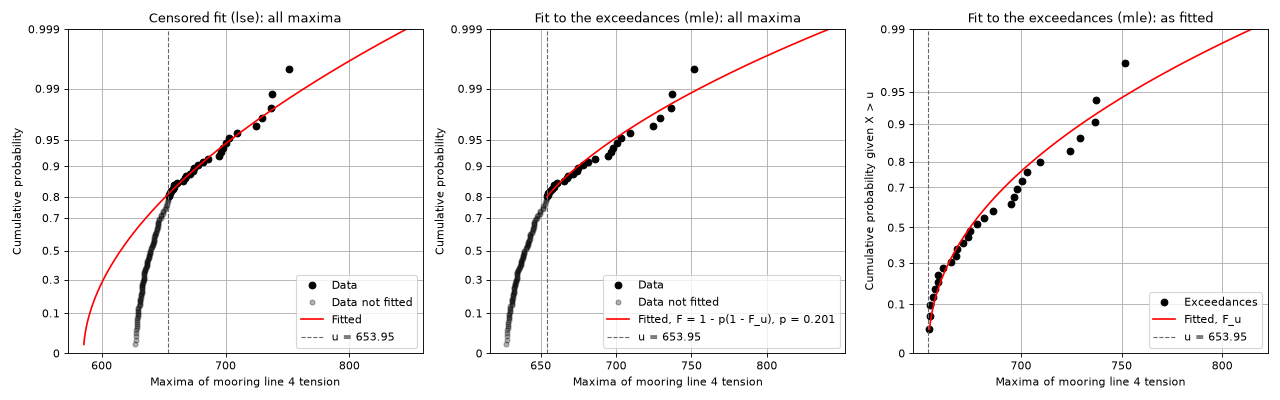
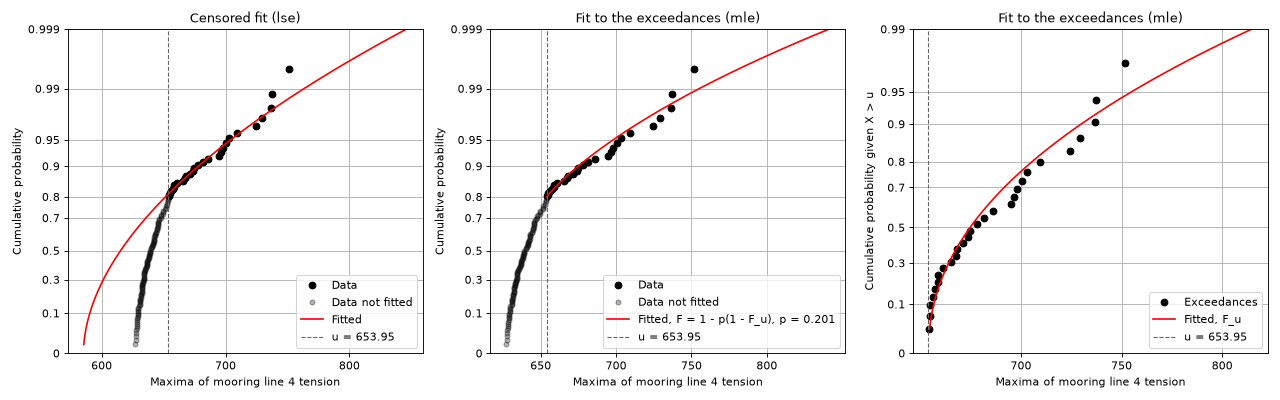
Enhance Weibull tail fitting examples and update plot titles for clarity

Changed region(s): [[0.75, 0.03, 0.9688, 0.06], [0.4062, 0.03, 0.625, 0.06], [0.125, 0.03, 0.2812, 0.06]]

diff --git a/docs/source/examples/tail_fitting.py b/docs/source/examples/tail_fitting.py
@@ -55,9 +55,9 @@ ax3 = fig.add_subplot(1, 3, 3)
 censored.plot(paper="rayleigh", plotting_positions="median", ax=ax1)
 exceedances.plot(paper="rayleigh", plotting_positions="median", ax=ax2, view="full-sample")
 exceedances.plot(paper="rayleigh", plotting_positions="median", ax=ax3)
-ax1.set_title("Censored fit (lse): all maxima")
-ax2.set_title("Fit to the exceedances (mle): all maxima")
-ax3.set_title("Fit to the exceedances (mle): as fitted")
+ax1.set_title("Censored fit (lse)")
+ax2.set_title("Fit to the exceedances (mle)")
+ax3.set_title("Fit to the exceedances (mle)")
 for ax in (ax1, ax2, ax3):
     ax.set_xlabel("Maxima of mooring line 4 tension")
     ax.legend(loc="lower right")  # clear of the largest maxima

diff --git a/docs/source/examples.rst b/docs/source/examples.rst
@@ -121,8 +121,9 @@ Fit a Weibull distribution to the 20% largest maxima, often called tail fitting,
 to the exceedances of the threshold value u as a sample of their own. The fitted distribution keeps its fit settings in
 :attr:`~qats.stats.weibull.Weibull.fit_info`, and :meth:`~qats.stats.weibull.Weibull.plot` uses them to show which
 maxima were fitted. A fit to the exceedances is drawn as fitted, with only the exceedances and the distribution
-conditional on exceeding u (``view="exceedances"``, the default), or with all maxima (``view="full-sample"``). The next
-example compares more tail fits through :meth:`~qats.TimeSeries.stats`, with the extremes derived from them.
+conditional on exceeding u (``view="exceedances"``, the default), or with all maxima (``view="full-sample"``). The
+exceedances view checks the fit as it was made. The full-sample view compares it with a censored fit, and shows the
+distribution of all maxima that the extremes are derived from. The next example compares more tail fits through :meth:`~qats.TimeSeries.stats`, with the extremes derived from them.
 
 .. literalinclude:: examples/tail_fitting.py
    :language: python
@@ -133,8 +134,11 @@ example compares more tail fits through :meth:`~qats.TimeSeries.stats`, with the
     :figclass: align-center
     :target: _images/weibull_tail_fit.png
 
-    The censored fit, and the fit to the exceedances in both views, on Rayleigh paper. The maxima outside the tail
-    are faded, and u is dashed. The probability axis of the right panel is conditional on exceeding u.
+    Left: the censored fit. Middle and right: the same fit to the exceedances, drawn with all maxima
+    (``view="full-sample"``) and as fitted (``view="exceedances"``). All on Rayleigh paper. The maxima outside the
+    tail are faded, and u is dashed. In the right panel the exceedances are ranked among themselves, and the
+    probability axis is conditional on exceeding u: P there is 1 - p(1 - P) on the middle panel's axis, where
+    p = 0.201 is the fraction of maxima above u.
 
 
 Weibull fits to the tail of the maxima
